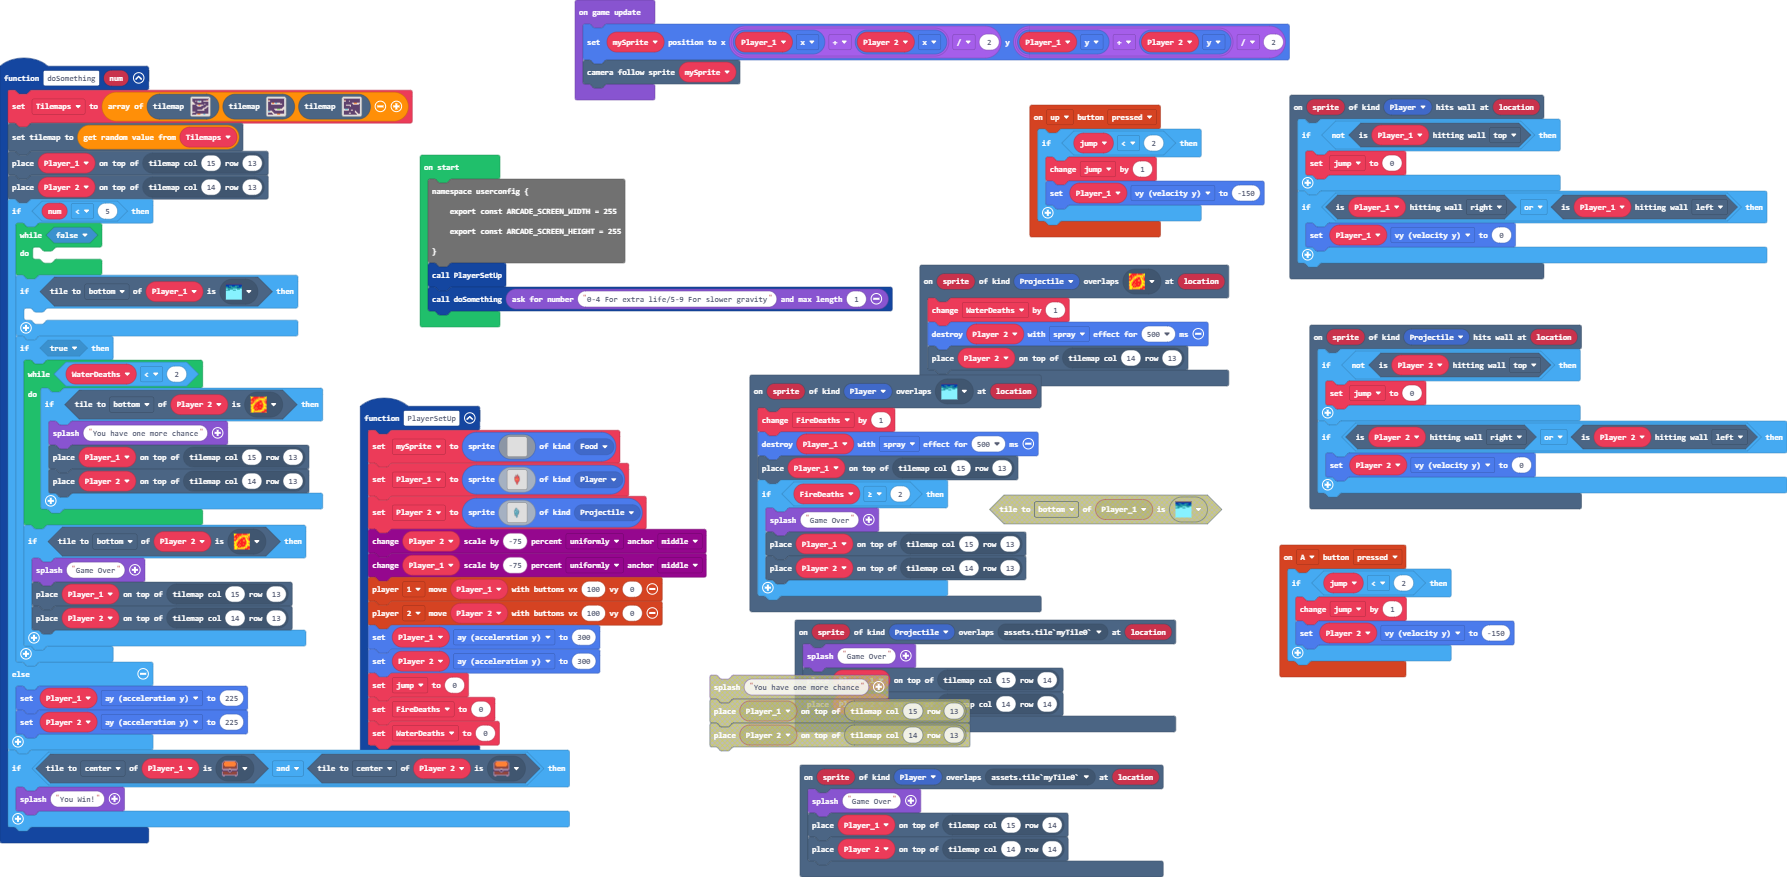
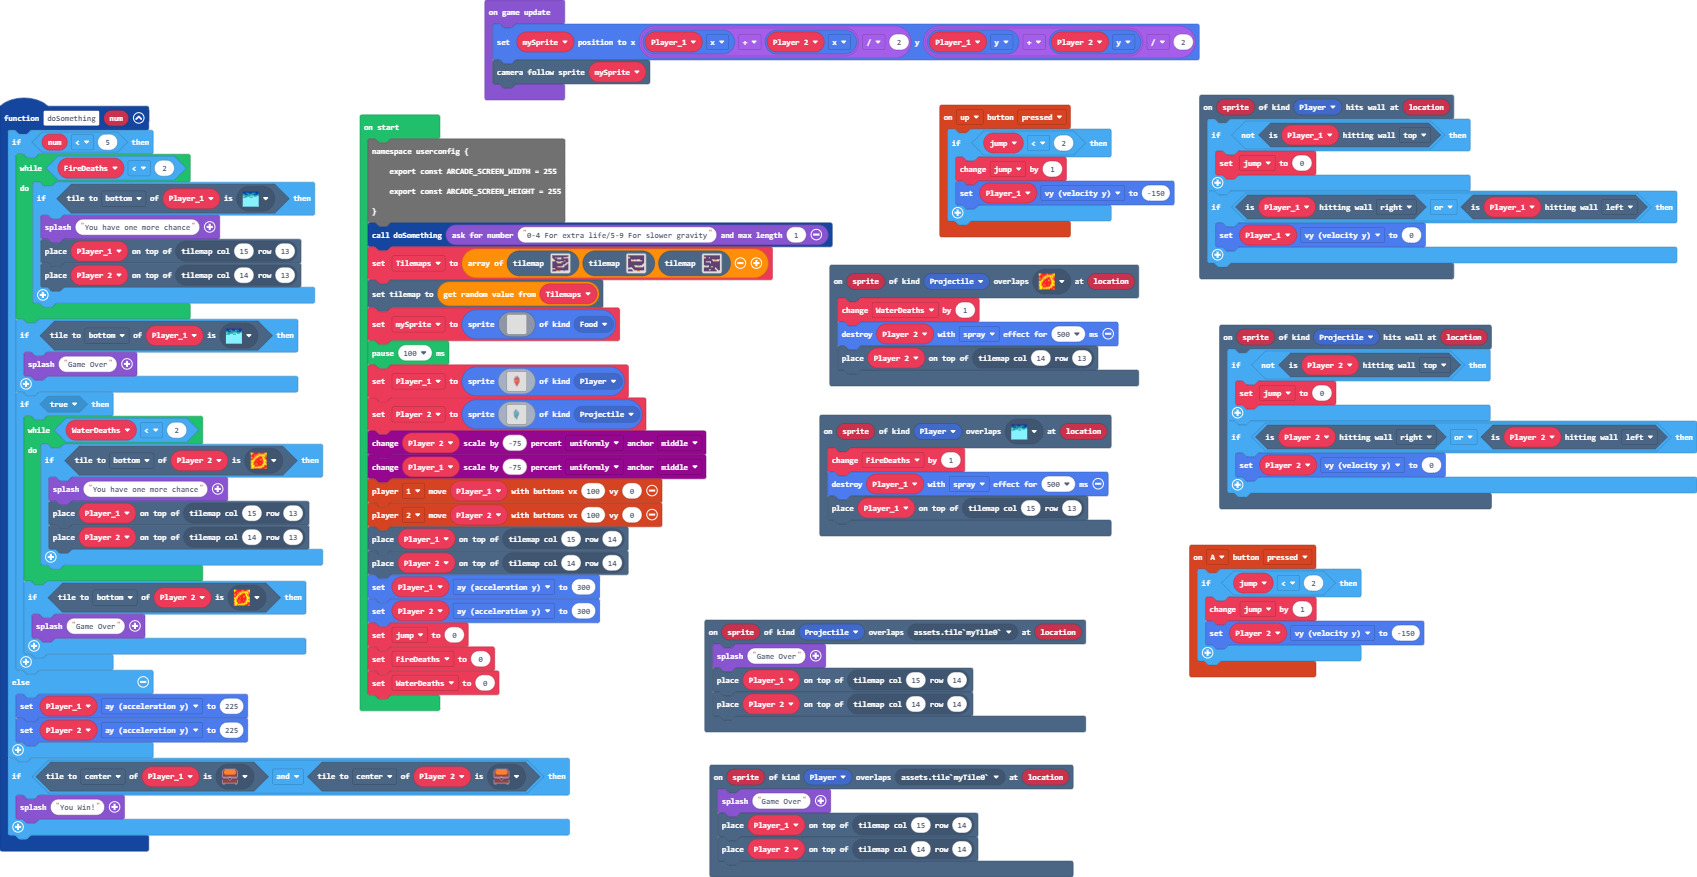
Restore '1/26/2024, 12:40:40 PM Update main.blocks, main.ts, tilemap.g.jres, tilemap.g.ts'

diff --git a/main.ts b/main.ts
@@ -34,16 +34,16 @@ scene.onOverlapTile(SpriteKind.Projectile, assets.tile`myTile0`, function (sprit
     tiles.placeOnTile(Player_2, tiles.getTileLocation(14, 14))
 })
 function doSomething (num: number) {
-    Tilemaps = [tilemap`level 1`, tilemap`level3`, tilemap`level11`]
-    tiles.setCurrentTilemap(Tilemaps._pickRandom())
-    tiles.placeOnTile(Player_1, tiles.getTileLocation(15, 13))
-    tiles.placeOnTile(Player_2, tiles.getTileLocation(14, 13))
     if (num < 5) {
-        while (false) {
-        	
+        while (FireDeaths < 2) {
+            if (Player_1.tileKindAt(TileDirection.Bottom, sprites.dungeon.hazardWater)) {
+                game.splash("You have one more chance")
+                tiles.placeOnTile(Player_1, tiles.getTileLocation(15, 13))
+                tiles.placeOnTile(Player_2, tiles.getTileLocation(14, 13))
+            }
         }
         if (Player_1.tileKindAt(TileDirection.Bottom, sprites.dungeon.hazardWater)) {
-        	
+            game.splash("Game Over")
         }
         if (true) {
             while (WaterDeaths < 2) {
@@ -55,8 +55,6 @@ function doSomething (num: number) {
             }
             if (Player_2.tileKindAt(TileDirection.Bottom, sprites.dungeon.hazardLava0)) {
                 game.splash("Game Over")
-                tiles.placeOnTile(Player_1, tiles.getTileLocation(15, 13))
-                tiles.placeOnTile(Player_2, tiles.getTileLocation(14, 13))
             }
         }
     } else {
@@ -71,43 +69,7 @@ scene.onOverlapTile(SpriteKind.Player, sprites.dungeon.hazardWater, function (sp
     FireDeaths += 1
     sprites.destroy(Player_1, effects.spray, 500)
     tiles.placeOnTile(Player_1, tiles.getTileLocation(15, 13))
-    if (FireDeaths >= 2) {
-        game.splash("Game Over")
-        tiles.placeOnTile(Player_1, tiles.getTileLocation(15, 13))
-        tiles.placeOnTile(Player_2, tiles.getTileLocation(14, 13))
-    }
 })
-function PlayerSetUp () {
-    mySprite = sprites.create(img`
-        . . . . . . . . . . . . . . . . 
-        . . . . . . . . . . . . . . . . 
-        . . . . . . . . . . . . . . . . 
-        . . . . . . . . . . . . . . . . 
-        . . . . . . . . . . . . . . . . 
-        . . . . . . . . . . . . . . . . 
-        . . . . . . . . . . . . . . . . 
-        . . . . . . . . . . . . . . . . 
-        . . . . . . . . . . . . . . . . 
-        . . . . . . . . . . . . . . . . 
-        . . . . . . . . . . . . . . . . 
-        . . . . . . . . . . . . . . . . 
-        . . . . . . . . . . . . . . . . 
-        . . . . . . . . . . . . . . . . 
-        . . . . . . . . . . . . . . . . 
-        . . . . . . . . . . . . . . . . 
-        `, SpriteKind.Food)
-    Player_1 = sprites.create(assets.image`fire boy water girl`, SpriteKind.Player)
-    Player_2 = sprites.create(assets.image`fire boy water girl0`, SpriteKind.Projectile)
-    scaling.scaleByPercent(Player_2, -75, ScaleDirection.Uniformly, ScaleAnchor.Middle)
-    scaling.scaleByPercent(Player_1, -75, ScaleDirection.Uniformly, ScaleAnchor.Middle)
-    controller.player1.moveSprite(Player_1, 100, 0)
-    controller.player2.moveSprite(Player_2, 100, 0)
-    Player_1.ay = 300
-    Player_2.ay = 300
-    jump = 0
-    FireDeaths = 0
-    WaterDeaths = 0
-}
 scene.onHitWall(SpriteKind.Projectile, function (sprite, location) {
     if (!(Player_2.isHittingTile(CollisionDirection.Top))) {
         jump = 0
@@ -116,10 +78,8 @@ scene.onHitWall(SpriteKind.Projectile, function (sprite, location) {
         Player_2.vy = 0
     }
 })
-let mySprite: Sprite = null
-let FireDeaths = 0
-let Tilemaps: tiles.TileMapData[] = []
 let WaterDeaths = 0
+let FireDeaths = 0
 let jump = 0
 let Player_2: Sprite = null
 let Player_1: Sprite = null
@@ -127,8 +87,41 @@ namespace userconfig {
     export const ARCADE_SCREEN_WIDTH = 255
     export const ARCADE_SCREEN_HEIGHT = 255
 }
-PlayerSetUp()
 doSomething(game.askForNumber("0-4 For extra life/5-9 For slower gravity", 1))
+let Tilemaps = [tilemap`level 1`, tilemap`level3`, tilemap`level11`]
+tiles.setCurrentTilemap(Tilemaps._pickRandom())
+let mySprite = sprites.create(img`
+    . . . . . . . . . . . . . . . . 
+    . . . . . . . . . . . . . . . . 
+    . . . . . . . . . . . . . . . . 
+    . . . . . . . . . . . . . . . . 
+    . . . . . . . . . . . . . . . . 
+    . . . . . . . . . . . . . . . . 
+    . . . . . . . . . . . . . . . . 
+    . . . . . . . . . . . . . . . . 
+    . . . . . . . . . . . . . . . . 
+    . . . . . . . . . . . . . . . . 
+    . . . . . . . . . . . . . . . . 
+    . . . . . . . . . . . . . . . . 
+    . . . . . . . . . . . . . . . . 
+    . . . . . . . . . . . . . . . . 
+    . . . . . . . . . . . . . . . . 
+    . . . . . . . . . . . . . . . . 
+    `, SpriteKind.Food)
+pause(100)
+Player_1 = sprites.create(assets.image`fire boy water girl`, SpriteKind.Player)
+Player_2 = sprites.create(assets.image`fire boy water girl0`, SpriteKind.Projectile)
+scaling.scaleByPercent(Player_2, -75, ScaleDirection.Uniformly, ScaleAnchor.Middle)
+scaling.scaleByPercent(Player_1, -75, ScaleDirection.Uniformly, ScaleAnchor.Middle)
+controller.player1.moveSprite(Player_1, 100, 0)
+controller.player2.moveSprite(Player_2, 100, 0)
+tiles.placeOnTile(Player_1, tiles.getTileLocation(15, 14))
+tiles.placeOnTile(Player_2, tiles.getTileLocation(14, 14))
+Player_1.ay = 300
+Player_2.ay = 300
+jump = 0
+FireDeaths = 0
+WaterDeaths = 0
 game.onUpdate(function () {
     mySprite.setPosition((Player_1.x + Player_2.x) / 2, (Player_1.y + Player_2.y) / 2)
     scene.cameraFollowSprite(mySprite)
